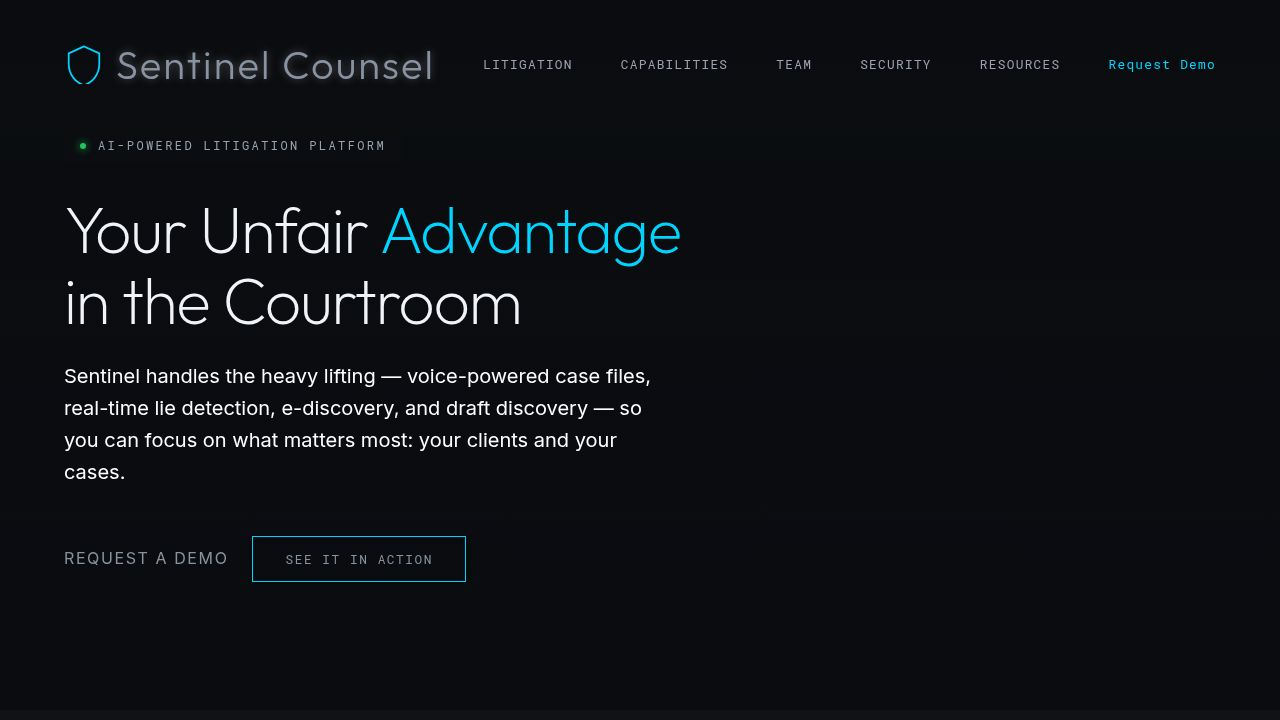
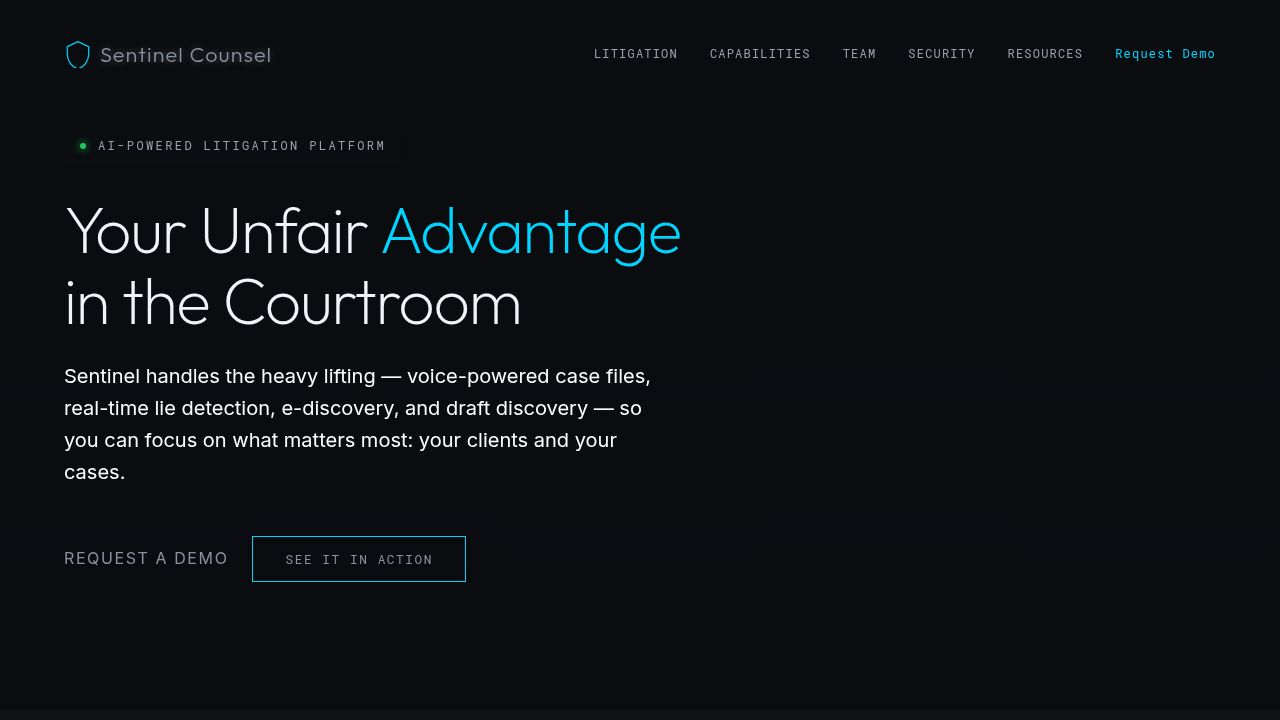
Improve header layout and prevent overlapping text on various screen sizes
Adjusted CSS in `homepage.css` to reduce logo font size, tighten nav link spacing, and update media query breakpoints to ensure proper rendering and prevent text overlap across different viewports.

Replit-Commit-Author: Agent
Replit-Commit-Session-Id: a7d96290-15e5-4b0f-8cee-4c9f3b031d97
Replit-Commit-Checkpoint-Type: full_checkpoint
Replit-Commit-Event-Id: 9ce16c5a-d171-49cf-890d-709472dcb0d2
Replit-Commit-Screenshot-Url: https://storage.googleapis.com/screenshot-production-us-central1/e82fdfba-1f14-41a0-9ec4-0d4b042e97af/a7d96290-15e5-4b0f-8cee-4c9f3b031d97/sSdTSy6
Replit-Helium-Checkpoint-Created: true

diff --git a/artifacts/sentinel-counsel/src/styles/homepage.css b/artifacts/sentinel-counsel/src/styles/homepage.css
@@ -122,27 +122,29 @@
 .ice-logo {
   display: flex;
   align-items: center;
-  gap: 0.75rem;
+  gap: 0.5rem;
   font-family: var(--font-heading);
-  font-size: 2.5rem;
+  font-size: 1.35rem;
   font-weight: 500;
   color: #ffffff;
   letter-spacing: 0.05em;
   text-shadow: 0 0 8px rgba(255, 255, 255, 0.3);
+  white-space: nowrap;
+  flex-shrink: 0;
 }
 
 .ice-logo svg {
-  width: 40px;
-  height: 40px;
+  width: 28px;
+  height: 28px;
   stroke: var(--accent-primary);
 }
 
 .ice-nav-links {
   display: flex;
-  gap: 3rem;
+  gap: 2rem;
   align-items: center;
   font-family: var(--font-mono);
-  font-size: 0.8rem;
+  font-size: 0.75rem;
   text-transform: uppercase;
   letter-spacing: 0.1em;
 }
@@ -238,7 +240,7 @@
   visibility: visible;
 }
 
-@media (max-width: 768px) {
+@media (max-width: 960px) {
   .ice-nav-links:not(.mobile-open) {
     visibility: hidden;
     pointer-events: none;
@@ -246,8 +248,8 @@
 }
 
 .ice-hero {
-  padding-top: 16rem;
-  padding-bottom: 8rem;
+  padding-top: 10rem;
+  padding-bottom: 6rem;
   display: flex;
   flex-direction: column;
   align-items: flex-start;
@@ -1122,7 +1124,7 @@
   }
 }
 
-@media (max-width: 768px) {
+@media (max-width: 960px) {
   .hamburger {
     display: flex;
   }
@@ -1130,15 +1132,11 @@
   .ice-nav {
     flex-wrap: nowrap;
     justify-content: space-between;
-    padding: 1rem 1.25rem;
+    padding: 1rem 1.5rem;
   }
 
   .ice-nav.scrolled {
-    padding: 0.75rem 1.25rem;
-  }
-
-  .ice-logo {
-    font-size: 1.25rem;
+    padding: 0.75rem 1.5rem;
   }
 
   .ice-logo svg {